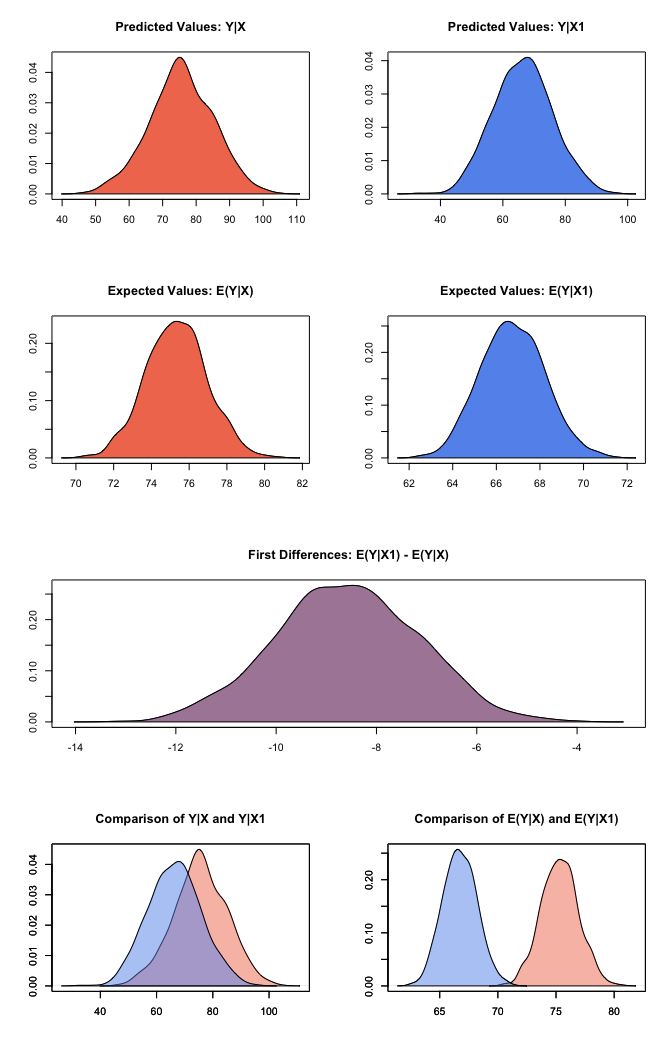
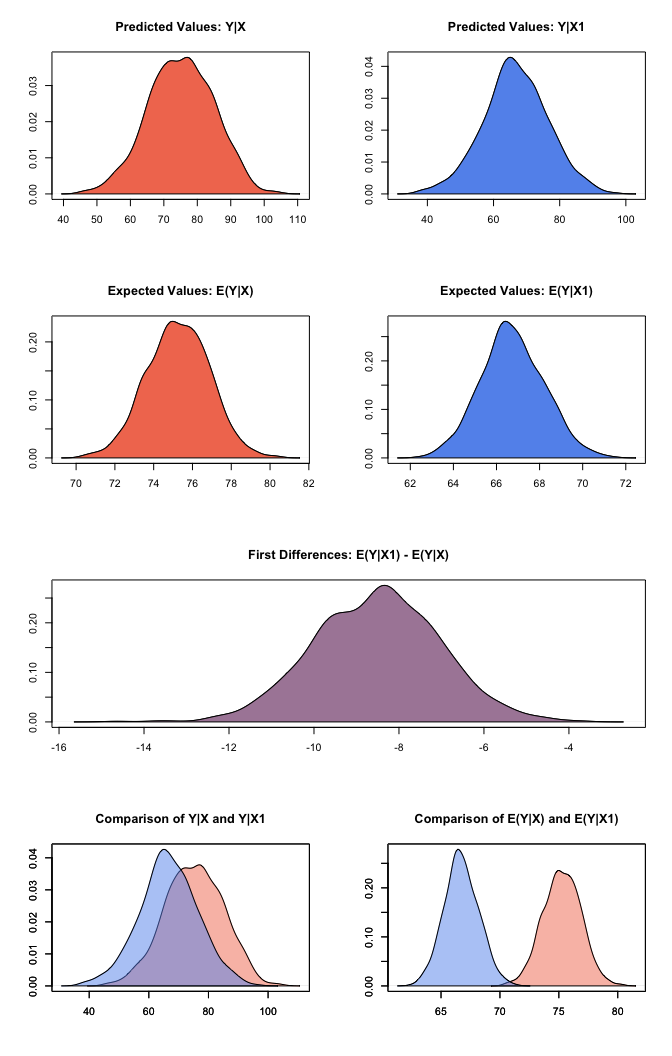
readme minor

diff --git a/README.md b/README.md
@@ -180,23 +180,23 @@ After setting our predictor value, we simulate using the `sim()` method:
     ##  sim x :
     ##  -----
     ## ev
-    ##       mean      sd      50%     2.5%    97.5%
-    ## 1 75.33214 1.60921 75.33061 72.16067 78.53098
+    ##       mean       sd      50%     2.5%    97.5%
+    ## 1 75.26068 1.610142 75.27442 72.09921 78.34865
     ## pv
-    ##          mean       sd      50%     2.5%    97.5%
-    ## [1,] 75.60004 9.523896 75.42738 55.92581 93.93229
+    ##          mean       sd      50%    2.5%    97.5%
+    ## [1,] 75.16607 9.777449 75.42547 55.5412 93.29276
     ## 
     ##  sim x1 :
     ##  -----
     ## ev
-    ##      mean       sd      50%     2.5%   97.5%
-    ## 1 66.7442 1.461883 66.73193 63.96141 69.6926
+    ##       mean       sd      50%     2.5%    97.5%
+    ## 1 66.73796 1.467184 66.67112 63.85722 69.68933
     ## pv
-    ##          mean       sd    50%    2.5%    97.5%
-    ## [1,] 66.46776 9.445496 66.538 48.6202 85.34469
+    ##          mean       sd      50%     2.5%   97.5%
+    ## [1,] 66.67612 9.783778 66.52848 46.61108 86.1839
     ## fd
     ##        mean       sd       50%      2.5%     97.5%
-    ## 1 -8.587938 1.418749 -8.580537 -11.43373 -5.889501
+    ## 1 -8.522724 1.481043 -8.453971 -11.34181 -5.630256
 
 At this point, we’ve estimated a model, set the predictor value, and
 estimated easily interpretable quantities of interest. The `summary()`
